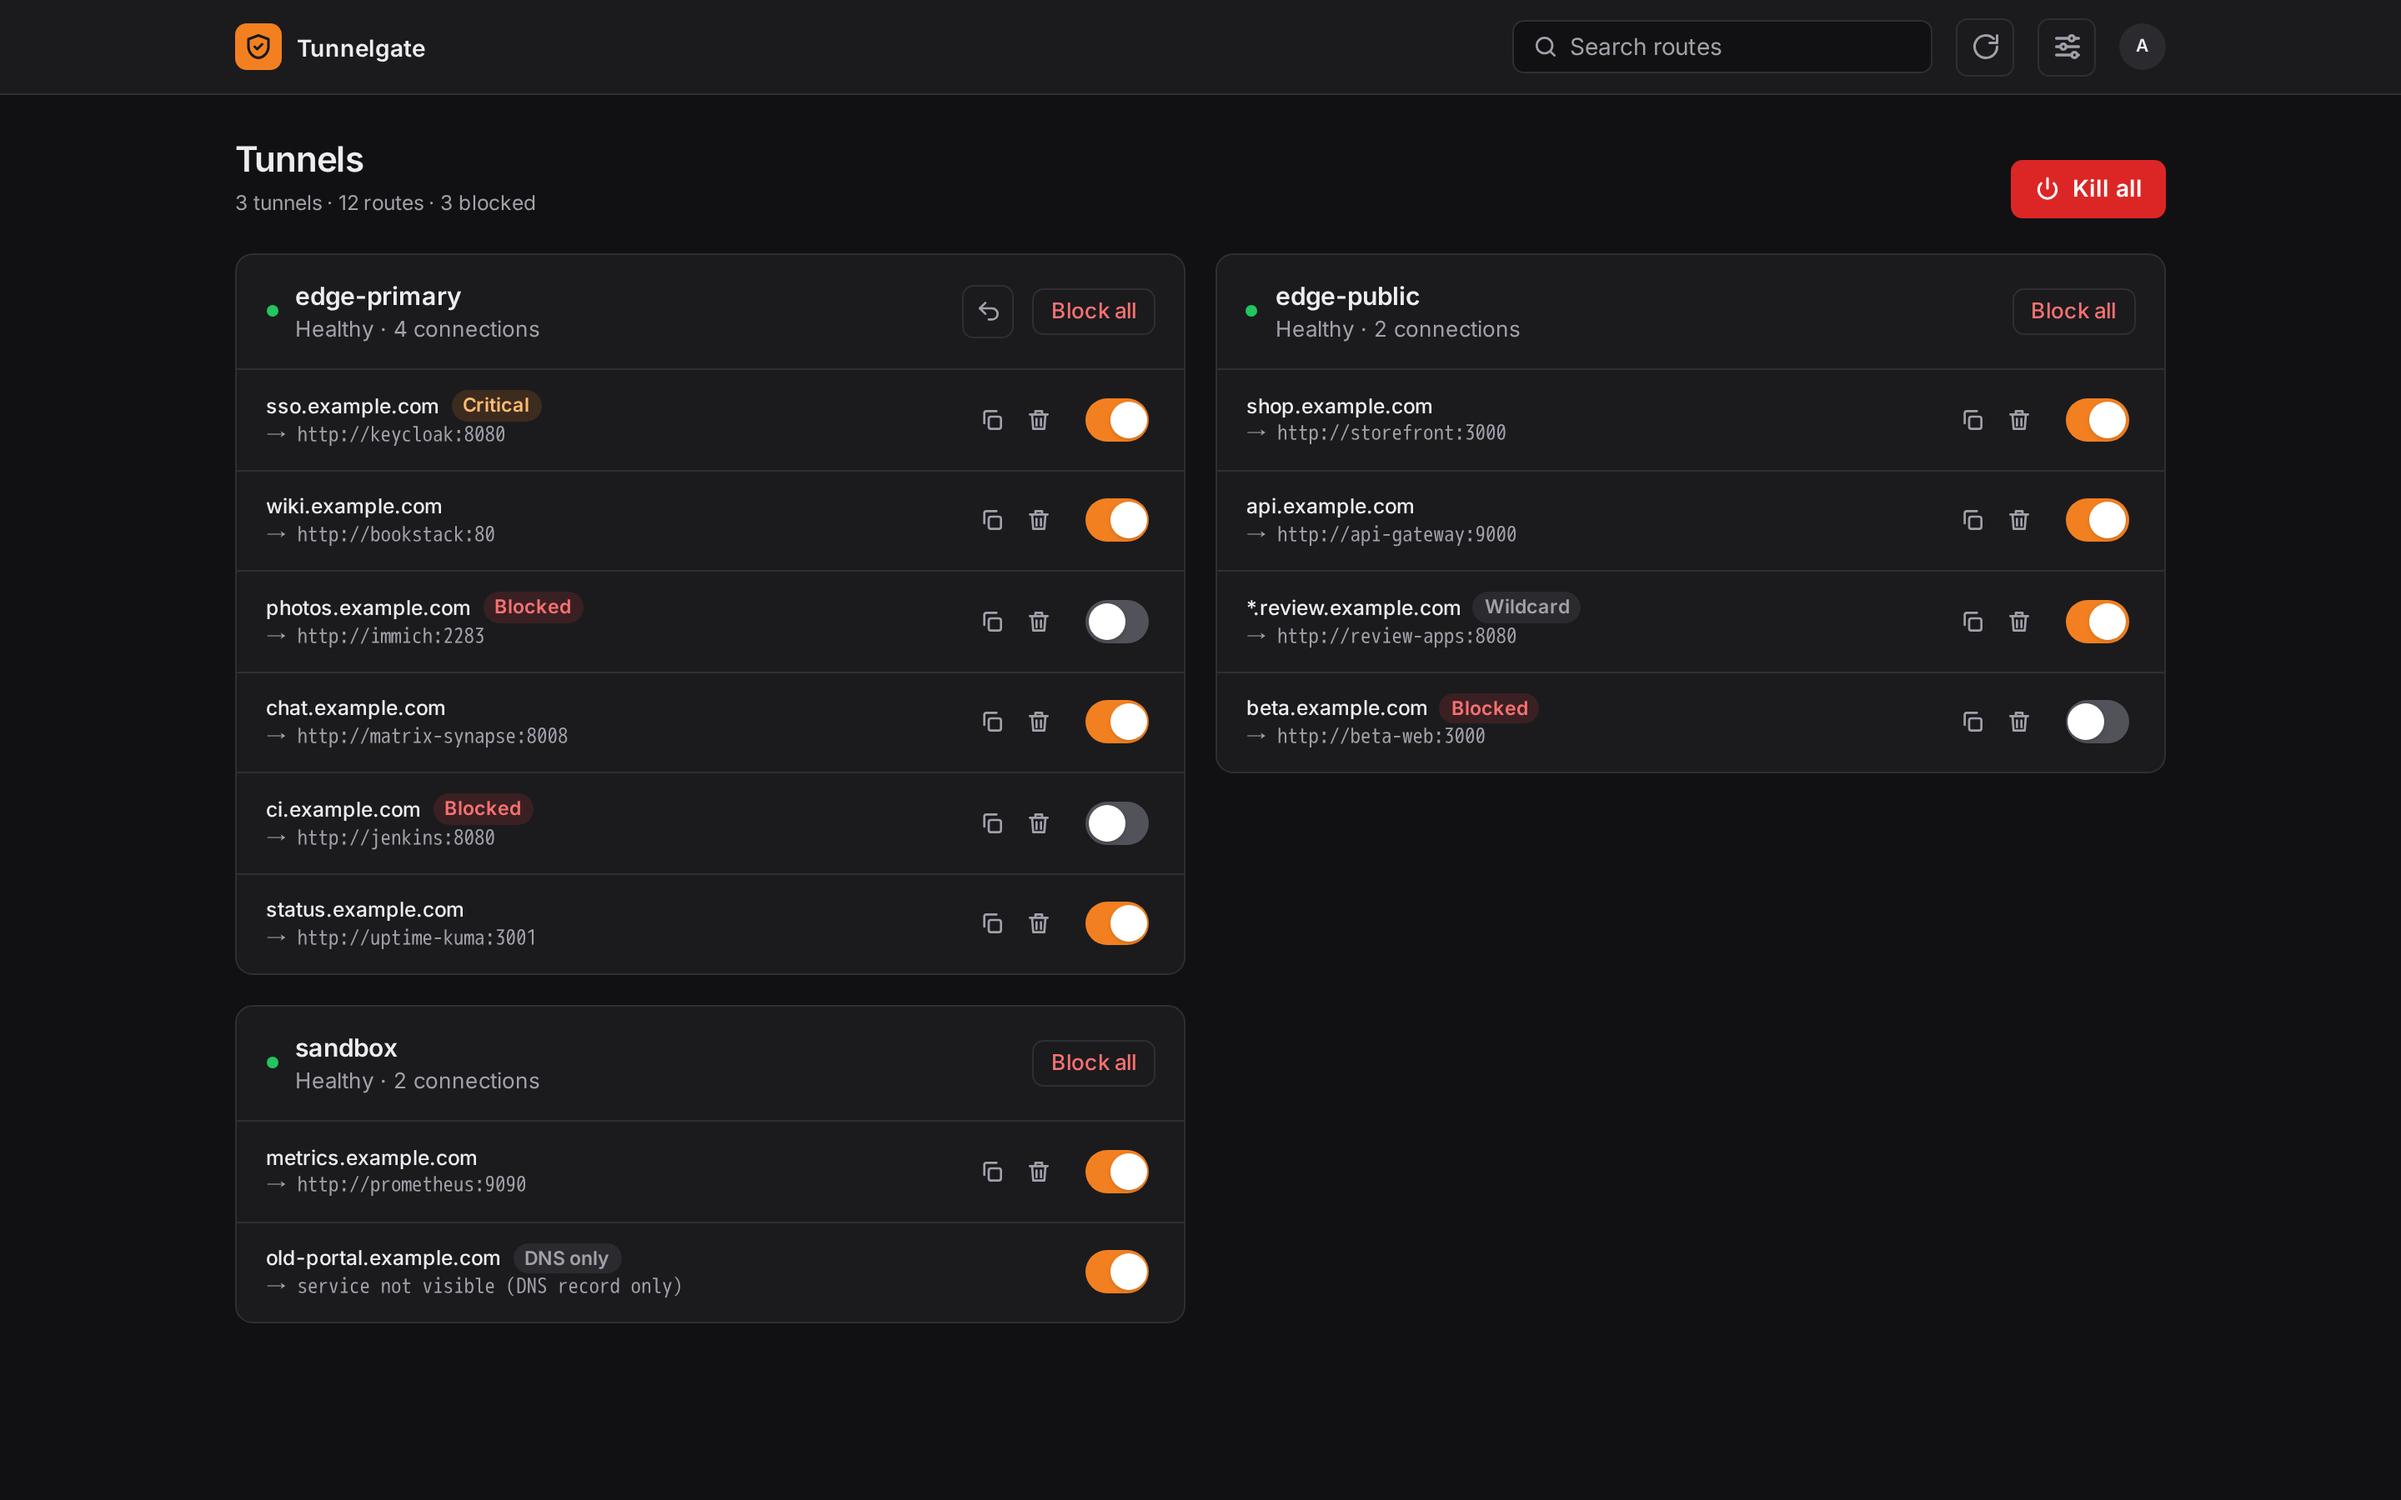
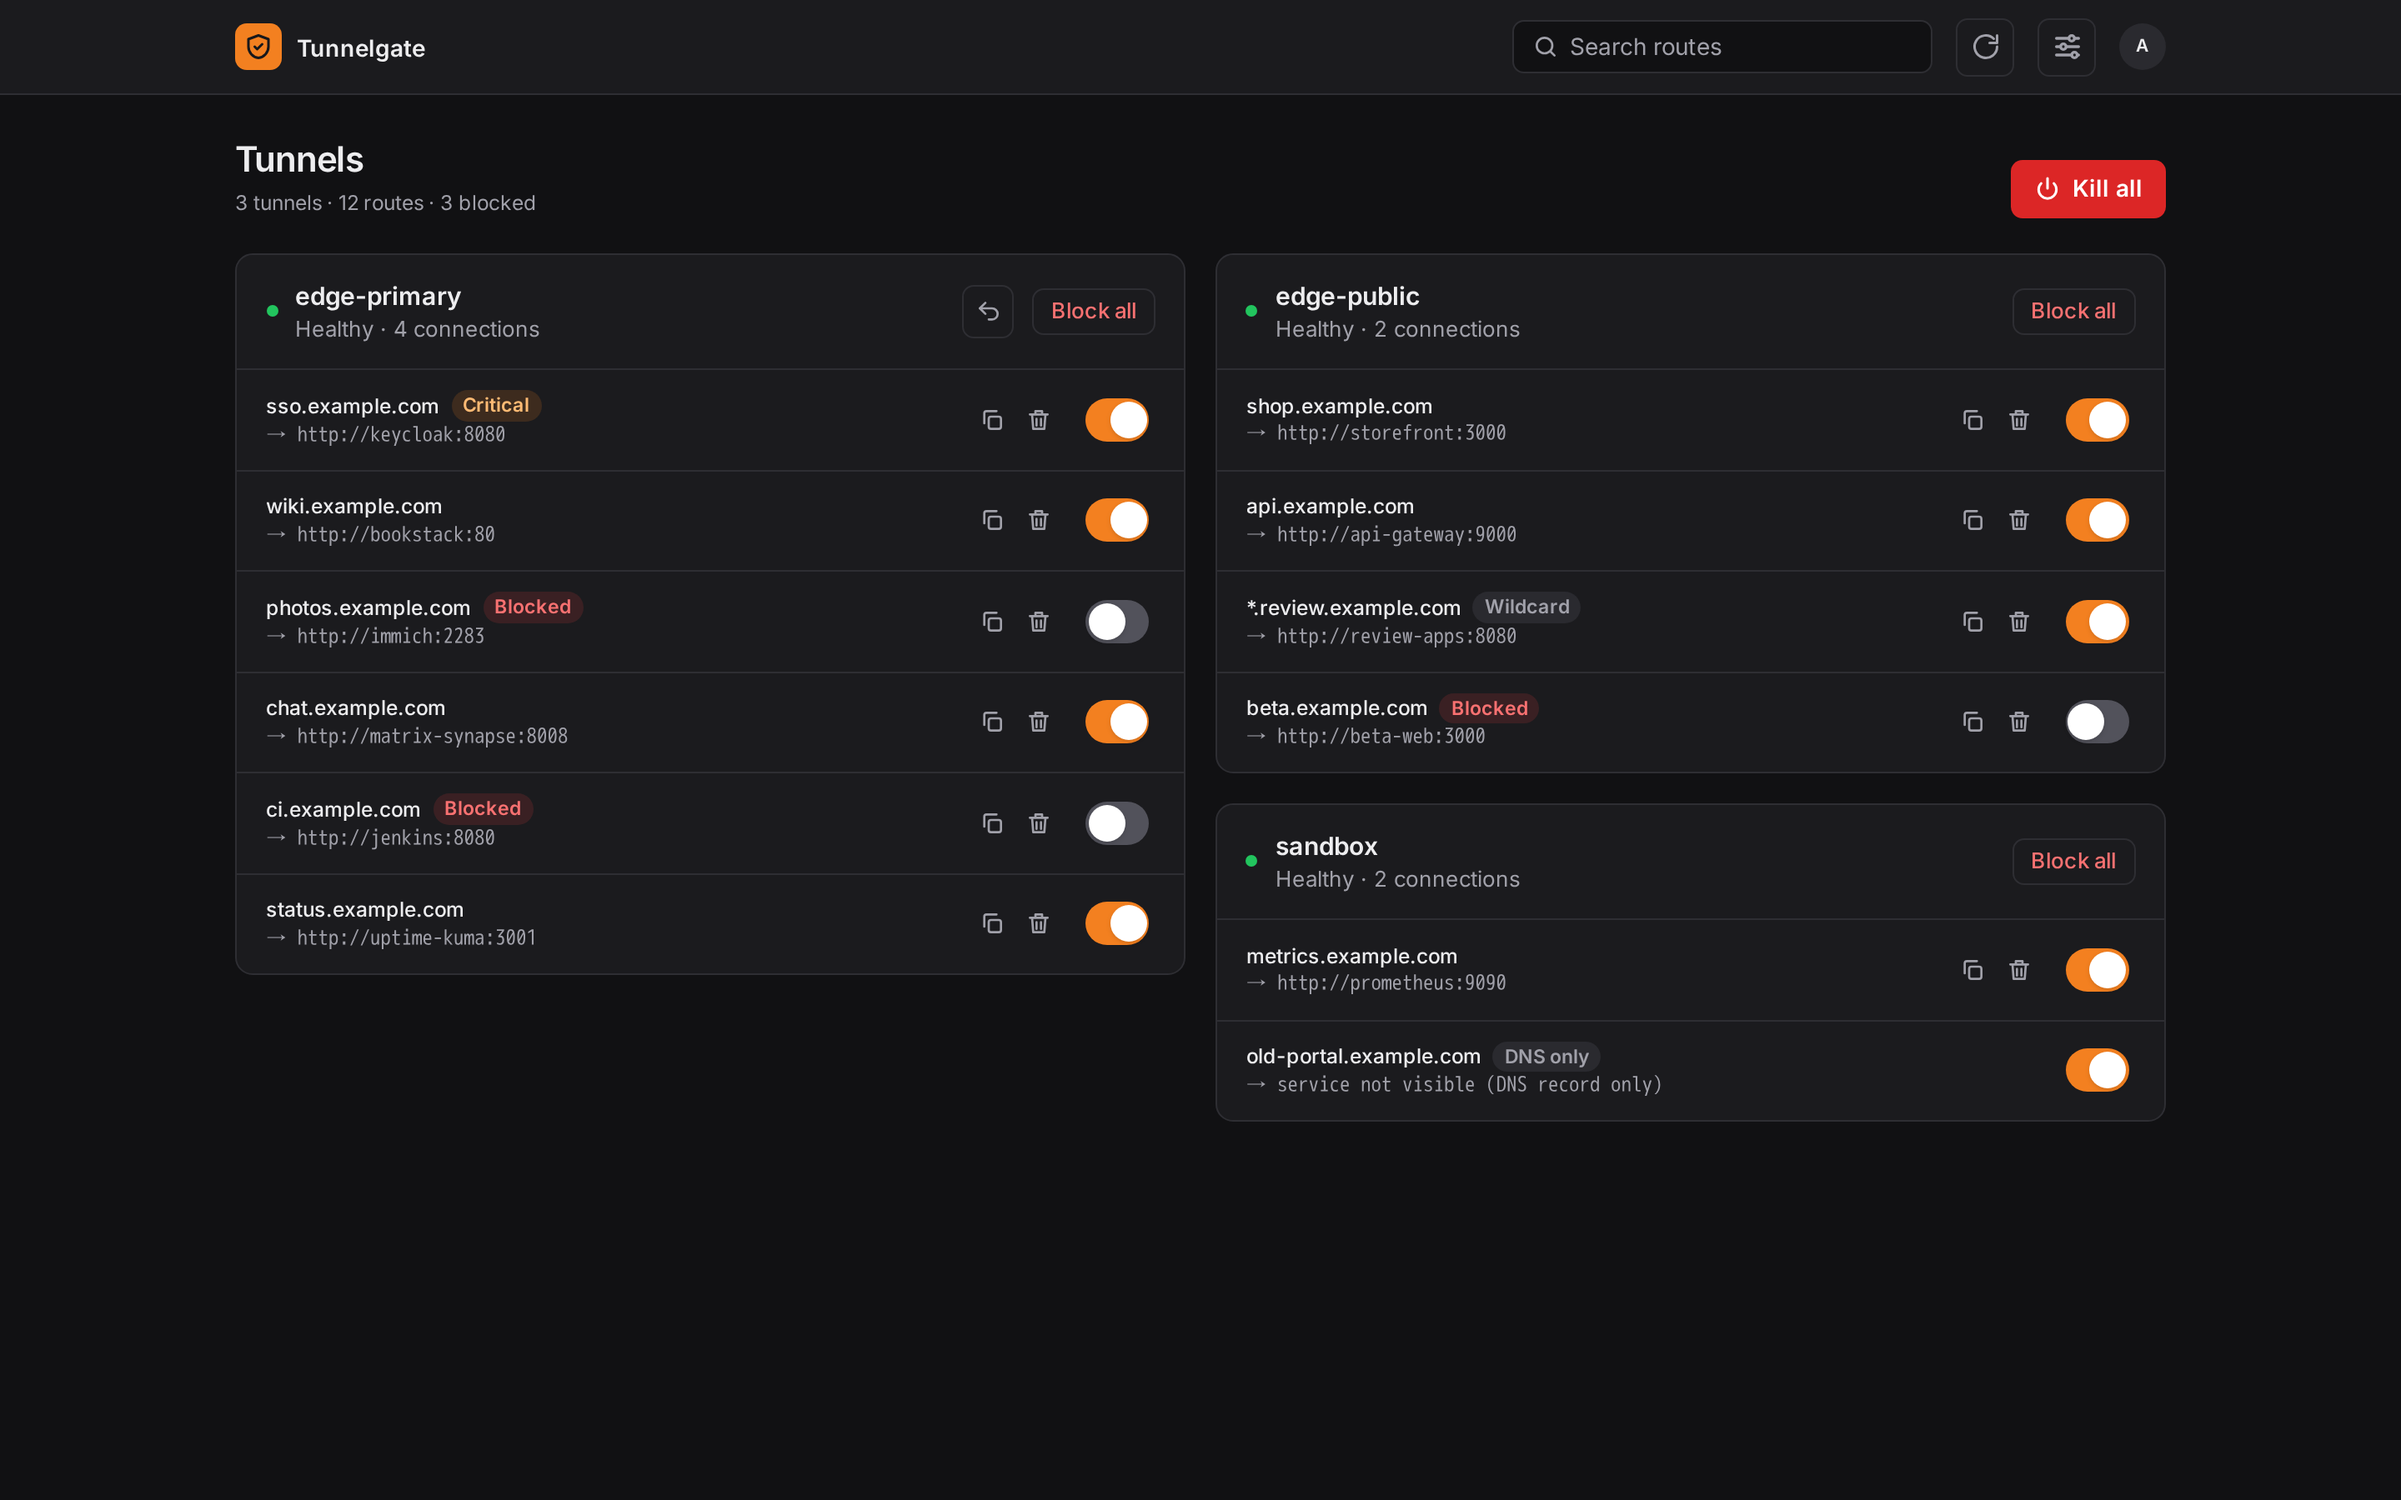
Fix gap between tunnel cards in the desktop layout (#5)

diff --git a/frontend/src/routes/+page.svelte b/frontend/src/routes/+page.svelte
@@ -8,7 +8,7 @@
 	import Logo from '#lib/components/Logo.svelte';
 	import RemoveDialog from '#lib/components/RemoveDialog.svelte';
 	import TunnelCard from '#lib/components/TunnelCard.svelte';
-	import { dashboard, filterTunnels, summarize } from '#lib/dashboard.svelte.ts';
+	import { dashboard, filterTunnels, splitColumns, summarize } from '#lib/dashboard.svelte.ts';
 	import { t } from '#lib/i18n/index.svelte.ts';
 	import { session } from '#lib/session.svelte.ts';
 	import type { CloneRequest, Route, Tunnel } from '#lib/types.ts';
@@ -30,6 +30,9 @@
 
 	const counts = $derived(summarize(dashboard.state));
 	const tunnels = $derived(filterTunnels(dashboard.state?.tunnels ?? [], query));
+	// Two independent columns from Tailwind's lg breakpoint; one column (original order) below it.
+	let wide = $state(false);
+	const columns = $derived(wide ? splitColumns(tunnels, 2) : [tunnels]);
 	const initials = $derived(
 		(session.me?.name ?? '?')
 			.split(/\s+/)
@@ -48,10 +51,15 @@
 		const down = () => (online = false);
 		window.addEventListener('online', up);
 		window.addEventListener('offline', down);
+		const lg = window.matchMedia('(min-width: 64rem)');
+		const resize = () => (wide = lg.matches);
+		resize();
+		lg.addEventListener('change', resize);
 		if (online) void dashboard.load();
 		return () => {
 			window.removeEventListener('online', up);
 			window.removeEventListener('offline', down);
+			lg.removeEventListener('change', resize);
 		};
 	});
 
@@ -254,16 +262,20 @@
 		{/if}
 
 		{#if online && dashboard.state && !dashboard.error}
-			<div class="grid grid-cols-1 items-start gap-4 sm:gap-5 lg:grid-cols-2">
-				{#each tunnels as tunnel (tunnel.id)}
-					<TunnelCard
-						{tunnel}
-						ontoggle={toggle}
-						onclone={(route) => (cloneTarget = { tunnel, route })}
-						onremove={(route) => (removeTarget = { tunnel, route })}
-						onblockall={() => (confirm = { kind: 'tunnel', tunnel })}
-						onundo={() => (confirm = { kind: 'undo', tunnel })}
-					/>
+			<div class="flex items-start gap-4 sm:gap-5">
+				{#each columns as column, i (i)}
+					<div class="flex min-w-0 flex-1 flex-col gap-4 sm:gap-5">
+						{#each column as tunnel (tunnel.id)}
+							<TunnelCard
+								{tunnel}
+								ontoggle={toggle}
+								onclone={(route) => (cloneTarget = { tunnel, route })}
+								onremove={(route) => (removeTarget = { tunnel, route })}
+								onblockall={() => (confirm = { kind: 'tunnel', tunnel })}
+								onundo={() => (confirm = { kind: 'undo', tunnel })}
+							/>
+						{/each}
+					</div>
 				{/each}
 			</div>
 		{/if}

diff --git a/frontend/tests/dashboard.test.ts b/frontend/tests/dashboard.test.ts
@@ -1,5 +1,5 @@
 import { describe, expect, it } from 'vitest';
-import { filterTunnels, sortRoutes, summarize } from '../src/lib/dashboard.svelte.ts';
+import { filterTunnels, sortRoutes, splitColumns, summarize } from '../src/lib/dashboard.svelte.ts';
 import type { Route, State, Tunnel } from '../src/lib/types.ts';
 
 const route = (hostname: string, blocked = false, service = 'http://x:1'): Route => ({
@@ -54,5 +54,25 @@ describe('dashboard helpers', () => {
 		expect(sortRoutes(routes, 'alpha').map((r) => r.hostname)).toEqual(['a.example.com', 'z.example.com']);
 		expect(sortRoutes(routes, 'ingress')).toBe(routes);
 		expect(routes[0]?.hostname).toBe('z.example.com');
+	});
+});
+
+describe('splitColumns', () => {
+	const sized = (name: string, count: number) =>
+		tunnel(
+			name,
+			Array.from({ length: count }, (_, i) => route(`r${i}.${name}.example.com`))
+		);
+
+	it('puts each card in the shortest column, so a tall card leaves no gap', () => {
+		const [a, b, c] = [sized('a', 7), sized('b', 11), sized('c', 2)];
+		const names = splitColumns([a, b, c], 2).map((col) => col.map((t) => t.name));
+		expect(names).toEqual([['a', 'c'], ['b']]);
+	});
+
+	it('keeps the original order in a single column', () => {
+		const items = [sized('a', 3), sized('b', 1)];
+		expect(splitColumns(items, 1)).toEqual([items]);
+		expect(splitColumns([], 2)).toEqual([[], []]);
 	});
 });

diff --git a/frontend/src/lib/dashboard.svelte.ts b/frontend/src/lib/dashboard.svelte.ts
@@ -26,6 +26,19 @@ export function filterTunnels(tunnels: Tunnel[], query: string): Tunnel[] {
 		.filter((tn) => tn.routes.length > 0);
 }
 
+// Masonry layout: each card goes to the currently shortest column (height ~ header + one unit per route),
+// so a tall card does not leave a gap under its neighbour as grid rows would.
+export function splitColumns(tunnels: Tunnel[], count: number): Tunnel[][] {
+	const columns: Tunnel[][] = Array.from({ length: count }, () => []);
+	const heights: number[] = new Array<number>(count).fill(0);
+	for (const tunnel of tunnels) {
+		const i = heights.indexOf(Math.min(...heights));
+		columns[i]!.push(tunnel);
+		heights[i]! += 2 + tunnel.routes.length;
+	}
+	return columns;
+}
+
 export function summarize(state: State | null): { tunnels: number; routes: number; blocked: number } {
 	const tunnels = state?.tunnels ?? [];
 	const routes = tunnels.flatMap((tn) => tn.routes);
